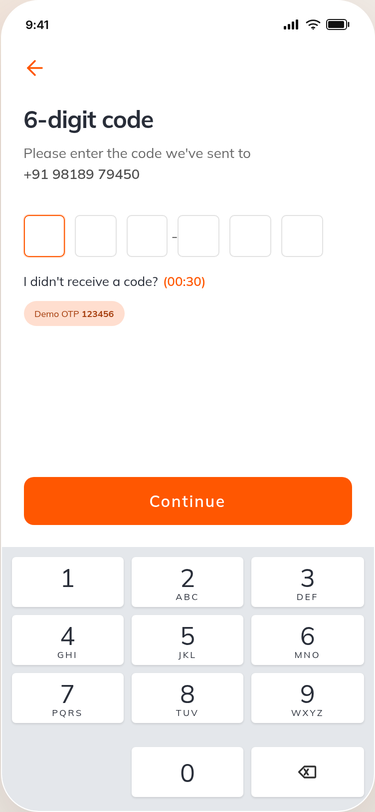
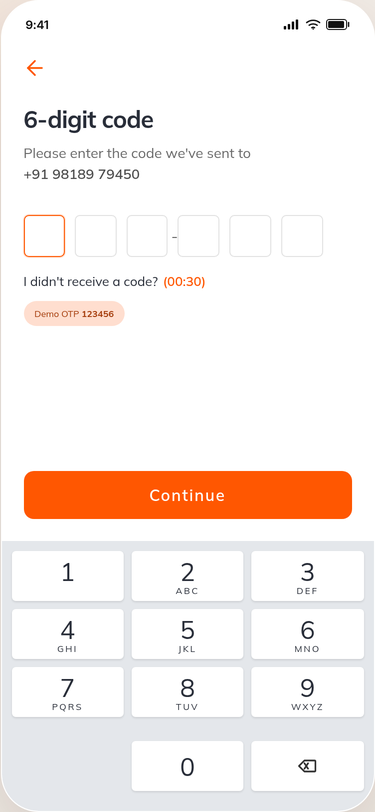
fix: keep dial pad zero and backspace row clear of bottom edge

Changed region(s): [[0.0, 0.5542, 0.9973, 0.9852]]

diff --git a/reactjs/src/styles.css b/reactjs/src/styles.css
@@ -1825,7 +1825,7 @@ input:focus-visible {
 .keypad {
   gap: 8px;
   margin: 22px -22px 0;
-  padding: 10px 10px 14px;
+  padding: 10px 10px calc(20px + env(safe-area-inset-bottom));
   border-radius: 0;
   background: #e4e7eb;
 }
